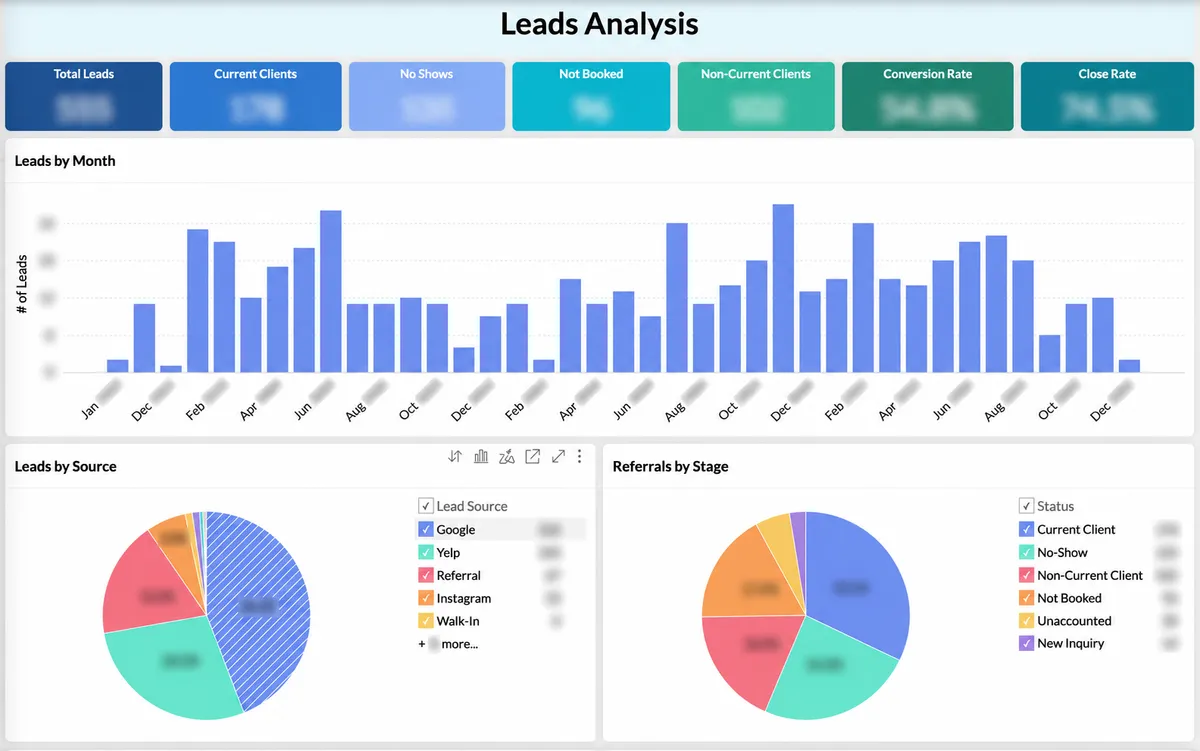
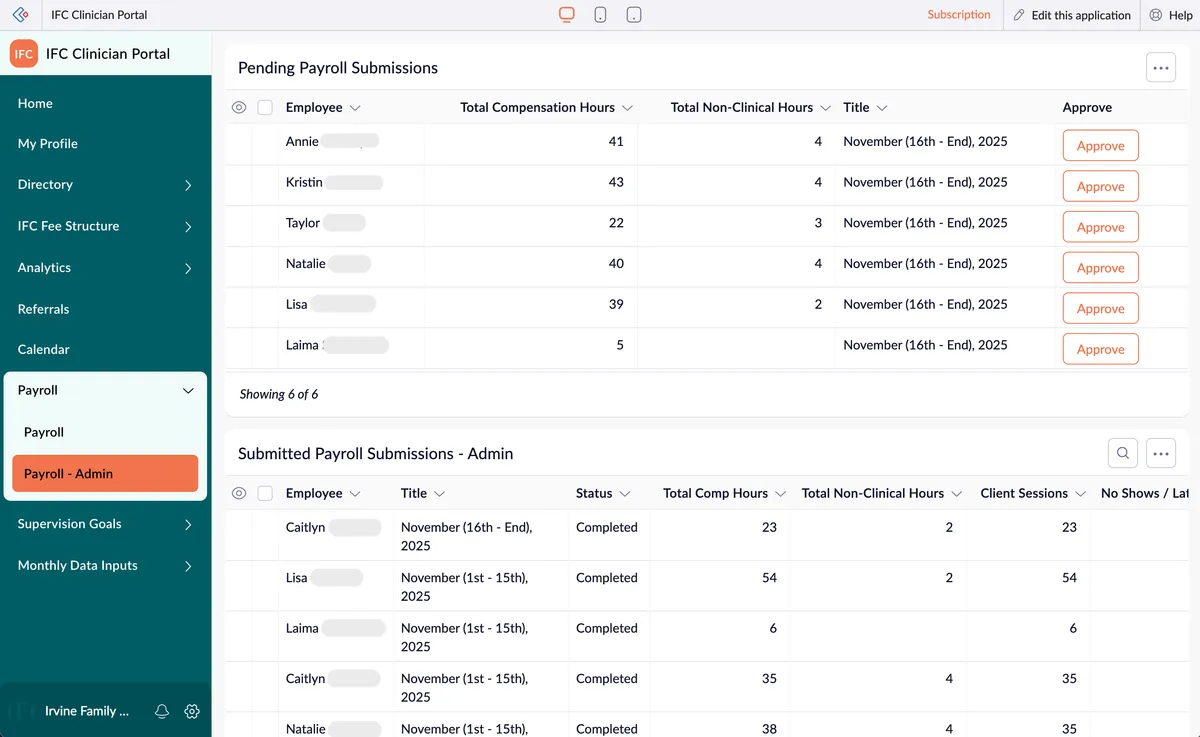
feat: use the corrected Hideout and IFC screenshots on Past Work

diff --git a/src/content/past-work.ts b/src/content/past-work.ts
@@ -71,8 +71,8 @@ export const caseStudies: CaseStudyContent[] = [
     testimonialId: "T1-hideout",
     quoteHeading: "In his words",
     screenshots: [
-      "[[SCREENSHOT: Hideout owner dashboard. Grant to supply; blur client and coach names]]",
-      "[[SCREENSHOT: session review queue or coach-pay view. Grant to supply; blur names]]",
+      { src: "/work/systems-1.webp", alt: "An owner dashboard with pie charts of profit against trainer pay by session type and bar charts of average profit", width: 1200, height: 656 },
+      { src: "/work/systems-2.webp", alt: "A leads board with cards grouped into columns by status", width: 1400, height: 666 },
     ],
     phases: {
       scope: "The owner had no reliable view of attrition, retention by coach, or revenue and profit per client. His session data was locked in a scheduling app that couldn't sync in real time, and coach pay depended on three variables.",
@@ -101,8 +101,8 @@ export const caseStudies: CaseStudyContent[] = [
     testimonialId: "T3-ifc",
     quoteHeading: "In her words",
     screenshots: [
-      { src: "/work/systems-3.webp", alt: "A leads dashboard with summary tiles, a bar chart of leads by month and two pie charts", width: 1200, height: 751 },
-      { src: "/work/systems-4.webp", alt: "A monthly revenue dashboard with summary tiles and a stacked bar chart of revenue over time", width: 1200, height: 688 },
+      { src: "/work/systems-3.webp", alt: "A staff app payroll screen with tables of pending and submitted payroll entries and an approve button on each row", width: 1200, height: 737 },
+      { src: "/work/systems-4.webp", alt: "A referral dashboard with colored summary tiles, a pie chart of referrals by stage and two rate tiles", width: 1200, height: 597 },
     ],
     phases: {
       scope: "The owner was handling most of the administration, supervision, policy work and her own clients herself, and most processes were manual.",
